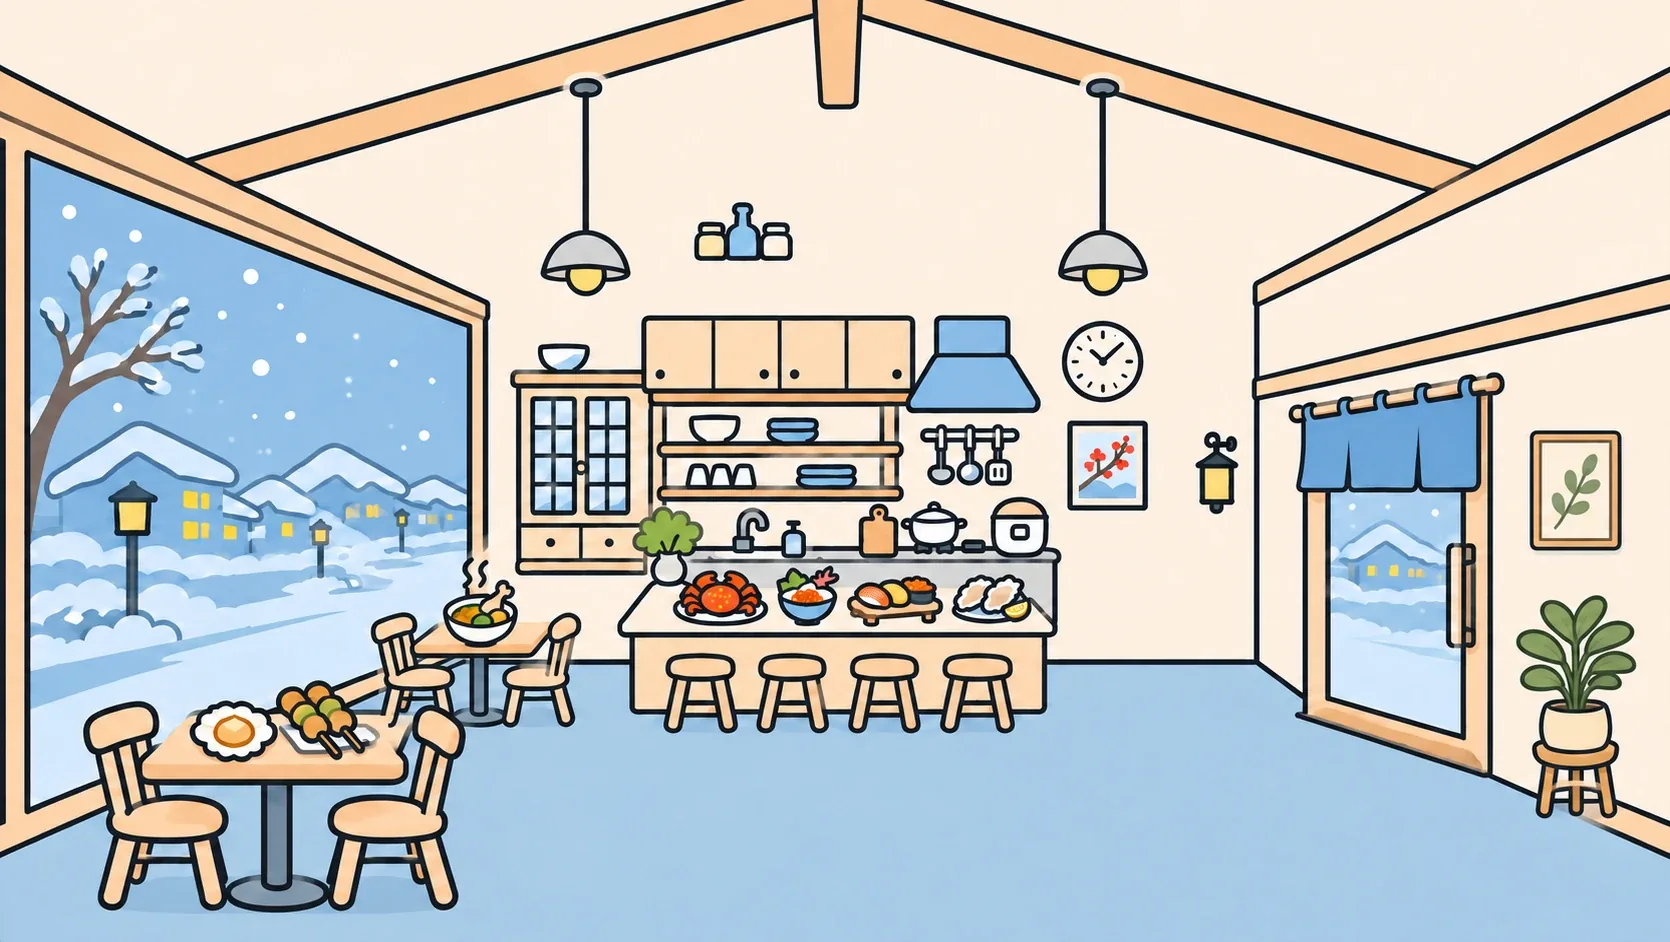
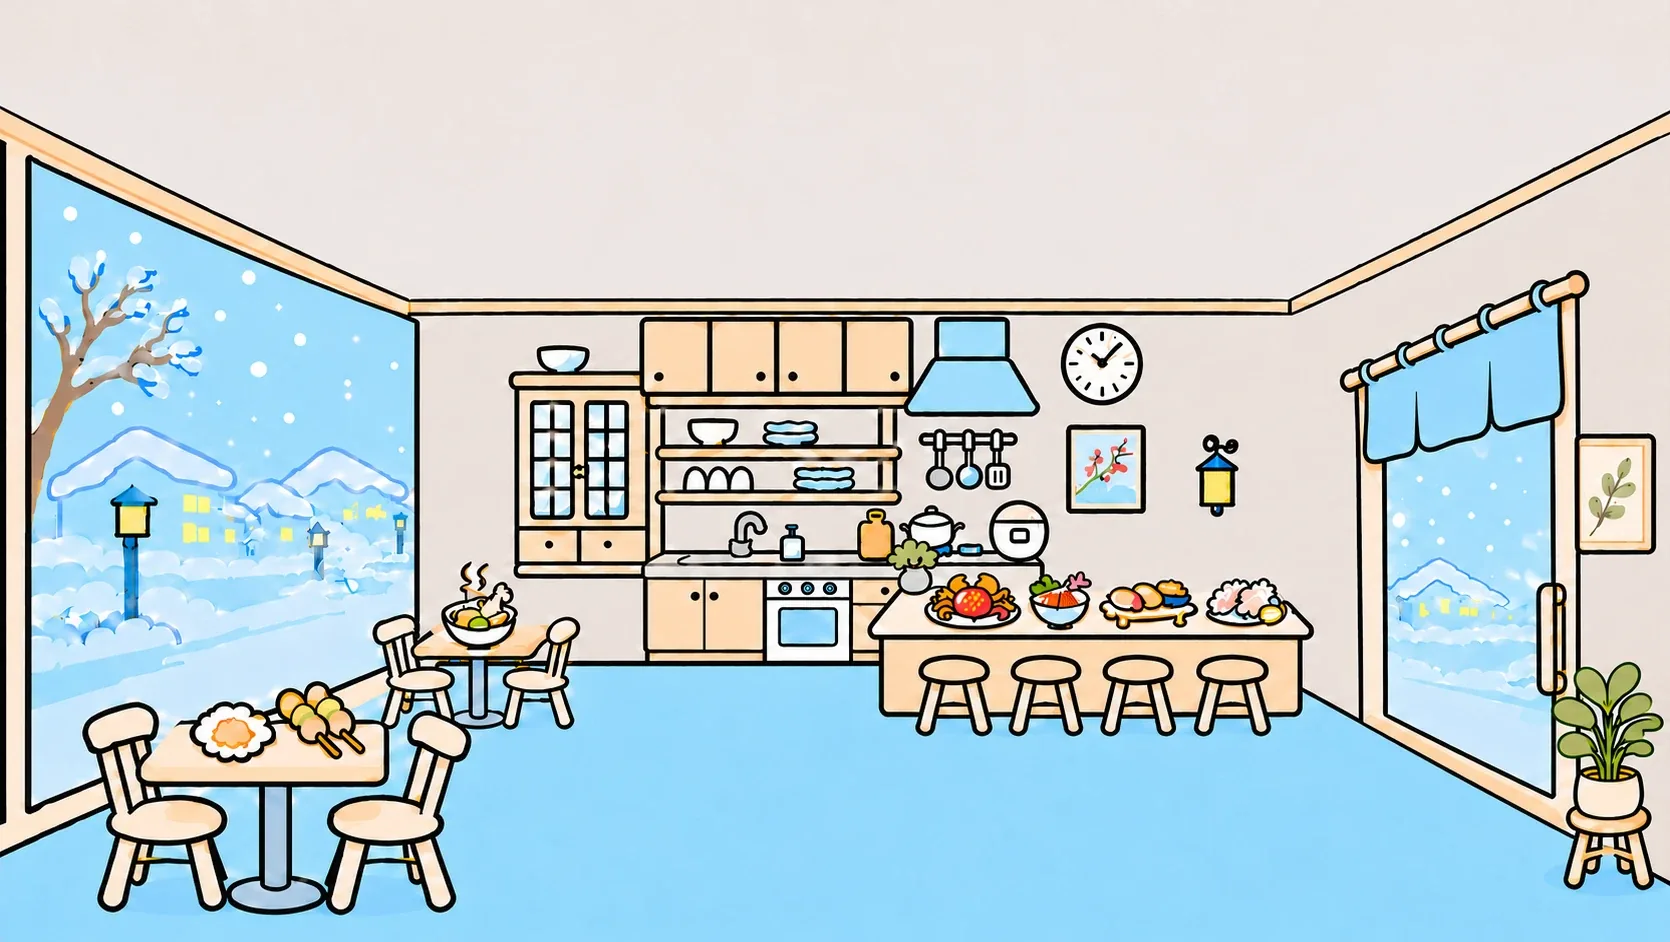
style: 想吃清單 new kitchen picture, stronger street lamp flicker

diff --git a/src/assets/pages/_wishlist.scss b/src/assets/pages/_wishlist.scss
@@ -41,22 +41,25 @@
   to { transform: translateX(6px); }
 }
 
-// Street lamps: a warm glow that slowly swells, dims, and swells again.
+// Street lamps: a warm glow that slowly swells, goes dark, flickers back and
+// shines again.
 .wishlist-scene-lamp {
   position: absolute;
   aspect-ratio: 1;
   border-radius: 50%;
-  background: radial-gradient(circle, rgba(255, 226, 120, .95) 0%, rgba(255, 214, 90, .55) 35%, rgba(255, 210, 90, 0) 70%);
-  mix-blend-mode: screen;
-  animation: wishlist-lamp 6s ease-in-out infinite;
+  background: radial-gradient(circle, rgba(255, 240, 150, 1) 0%, rgba(255, 214, 80, .85) 25%, rgba(255, 205, 80, .35) 50%, rgba(255, 205, 80, 0) 70%);
+  animation: wishlist-lamp 5s ease-in-out infinite;
 }
 @keyframes wishlist-lamp {
   0%, 100% { opacity: 1; transform: scale(1); }
-  40% { opacity: .9; transform: scale(.96); }
-  50% { opacity: .15; transform: scale(.8); }
-  60% { opacity: .85; transform: scale(.95); }
-  70% { opacity: .3; transform: scale(.85); }
-  80% { opacity: 1; transform: scale(1); }
+  35% { opacity: 1; transform: scale(1.06); }
+  48% { opacity: 0; transform: scale(.6); }
+  58% { opacity: 0; transform: scale(.6); }
+  62% { opacity: .9; transform: scale(.95); }
+  66% { opacity: .1; transform: scale(.7); }
+  70% { opacity: 1; transform: scale(1); }
+  74% { opacity: .25; transform: scale(.8); }
+  80% { opacity: 1; transform: scale(1.02); }
 }
 
 // Steam: soft wisps rising from a dish, swaying and fading as they go.

diff --git a/src/component/WishlistScene.jsx b/src/component/WishlistScene.jsx
@@ -11,24 +11,25 @@ const pct = (value, total) => `${(value / total) * 100}%`;
 // The glass of the big window and of the door, as polygons in picture pixels;
 // the window stops above the tables standing in front of it.
 const WINDOWS = [
-  [[28, 154], [468, 320], [468, 590], [28, 690]],
-  [[1336, 500], [1464, 500], [1464, 732], [1336, 714]],
+  [[30, 160], [410, 318], [410, 600], [30, 700]],
+  [[1388, 455], [1546, 450], [1546, 790], [1388, 715]],
 ];
 
 // Street lamps outside: centre and glow radius.
 const LAMPS = [
-  { x: 132, y: 413, r: 46, delay: 0 },
-  { x: 320, y: 432, r: 26, delay: -2.1 },
-  { x: 402, y: 415, r: 20, delay: -4.3 },
+  { x: 133, y: 510, r: 70, delay: 0 },
+  { x: 318, y: 535, r: 40, delay: -2.1 },
+  { x: 400, y: 522, r: 32, delay: -4.3 },
 ];
 
 // Where steam rises: the top of each hot dish.
 const STEAM = [
-  { x: 482, y: 492 },
-  { x: 722, y: 572 },
-  { x: 808, y: 566 },
-  { x: 935, y: 506 },
-  { x: 232, y: 612 },
+  { x: 482, y: 592 },
+  { x: 970, y: 580 },
+  { x: 1060, y: 585 },
+  { x: 930, y: 506 },
+  { x: 1018, y: 500 },
+  { x: 232, y: 718 },
 ];
 
 // A fixed pseudo-random snowfall for each window, the same on every render.
